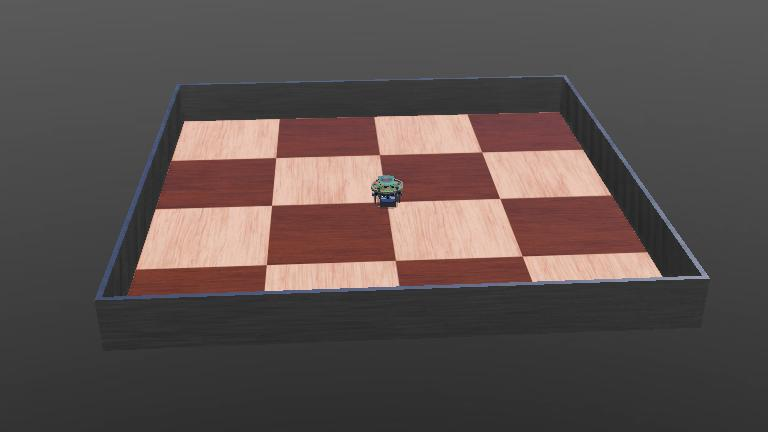
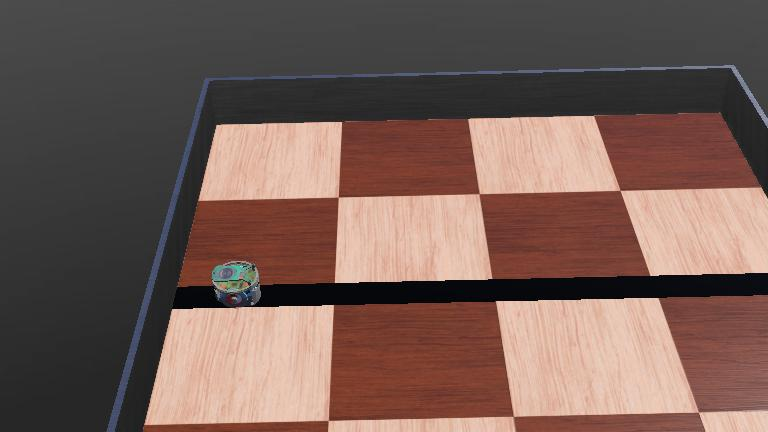
ajout ligne+ controller suivi de ligne

diff --git a/my_project2/controllers/suivi_ligne/suivi_ligne.py b/my_project2/controllers/suivi_ligne/suivi_ligne.py
@@ -1,0 +1,51 @@
+from controller import Robot
+
+TIME_STEP = 32
+MAX_SPEED = 6.28
+
+robot = Robot()
+
+# Moteurs
+left_motor = robot.getDevice('left wheel motor')
+right_motor = robot.getDevice('right wheel motor')
+left_motor.setPosition(float('inf'))
+right_motor.setPosition(float('inf'))
+left_motor.setVelocity(0.0)
+right_motor.setVelocity(0.0)
+
+# Capteurs au sol (gs0 = gauche, gs1 = milieu, gs2 = droite)
+gs = []
+for i in range(3):
+    s = robot.getDevice(f'gs{i}')
+    s.enable(TIME_STEP)
+    gs.append(s)
+
+SEUIL = 500  # en dessous : on voit la ligne noire
+
+while robot.step(TIME_STEP) != -1:
+    valeurs = [s.getValue() for s in gs]
+    print(valeurs)
+
+    ligne_gauche = valeurs[0] < SEUIL
+    ligne_milieu = valeurs[1] < SEUIL
+    ligne_droite = valeurs[2] < SEUIL
+
+    if ligne_milieu:
+        # Ligne au centre : tout droit
+        vitesse_g = MAX_SPEED
+        vitesse_d = MAX_SPEED
+    elif ligne_gauche:
+        # Ligne à gauche : tourner à gauche
+        vitesse_g = 0.3 * MAX_SPEED
+        vitesse_d = MAX_SPEED
+    elif ligne_droite:
+        # Ligne à droite : tourner à droite
+        vitesse_g = MAX_SPEED
+        vitesse_d = 0.3 * MAX_SPEED
+    else:
+        # Ligne perdue : avancer doucement et chercher
+        vitesse_g = 0.5 * MAX_SPEED
+        vitesse_d = 0.5 * MAX_SPEED
+
+    left_motor.setVelocity(vitesse_g)
+    right_motor.setVelocity(vitesse_d)
